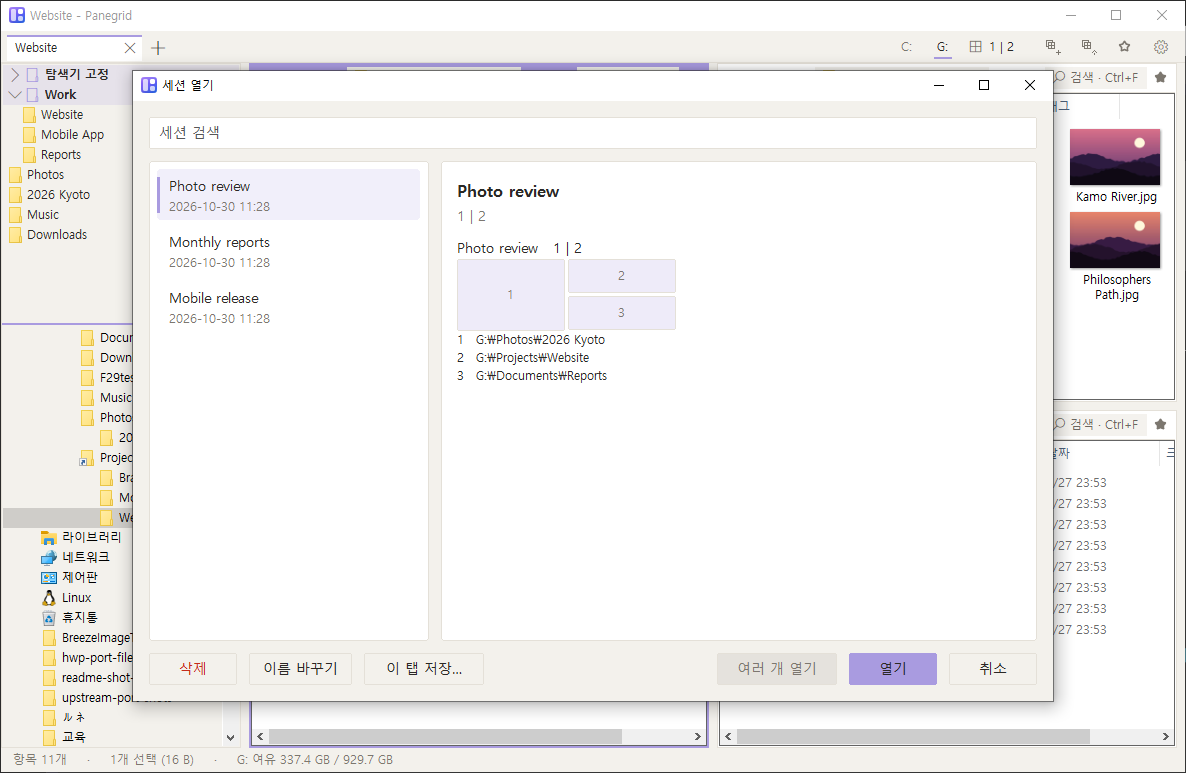
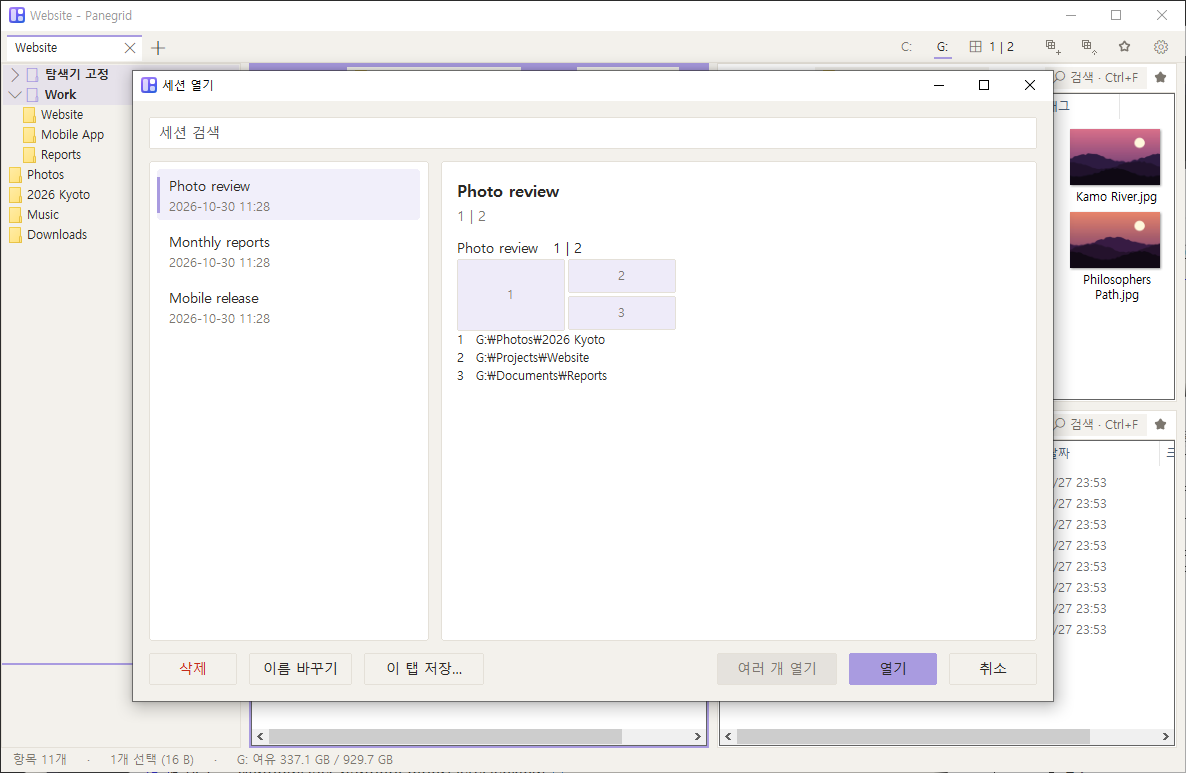
docs: clean README shots (G: curated) + text/shortcut refresh
Retake EN+KO README screenshots with TreeHide favorites-only sidebar
and curated G: demo data (no personal Desktop/user paths). Audit
README.md / README.ko.md against current code: soft exe-size wording,
missing features (pane rearrange, HWP/HWPX, per-folder view memory,
hover tooltips, theme keeps history, optional updater), and complete
the shortcut table from keys.rs CMDS (Ctrl+H, Ctrl+Shift+O,
Ctrl+Shift+R, Win+Shift+E, and related).

Changed region(s): [[0.0936, 0.2173, 1.0, 1.0], [0.0, 0.4036, 0.1248, 0.9625]]

diff --git a/README.md b/README.md
@@ -36,7 +36,7 @@ Every pane is a real Windows Explorer view: the full right-click menu, drag and 
 
 ### 🧩 Multi-pane layouts & sessions
 
-Up to 4 columns × 4 panes. Click or drag across the layout picker, drag any boundary to resize, and save the current tab — layout, folders, columns, and colour labels — as a named session. Opening one adds a new tab beside the current one.
+Up to 4 columns × 4 panes. Click or drag across the layout picker, drag any boundary to resize, and drag a pane number to rearrange panes (Ctrl+drag copies a pane tab into another cell). Save the current tab — layout, folders, columns, and colour labels — as a named session. Opening one adds a new tab beside the current one.
 
 With a single pane, the ⇄ button splits the tab: the selected folder (or the current one, if nothing or only files are selected) opens in a new right pane with the same columns and view. With two or more panes, ⇄ keeps its menu.
 
@@ -56,7 +56,7 @@ The ★ on the toolbar opens a themed favourites popup: your Explorer Quick-acce
 
 ### 👁 Quick preview
 
-Space or F3 previews pictures, PDF, Office, HTML, Markdown, code, CSV, ZIP and more. Ctrl+wheel zooms (10–800%), drag pans, the wheel scrolls, ←/→ step through files. Resizable, and it remembers its size.
+Space or F3 previews pictures, PDF, Office, HTML, Markdown, code, CSV, ZIP, HWP/HWPX (Hancom) and more. Ctrl+wheel zooms (10–800%), drag pans, the wheel scrolls, ←/→ step through files. Resizable, and it remembers its size.
 
 <p align="center"><img width="760" alt="preview" src="docs/images/preview.png"></p>
 
@@ -74,10 +74,12 @@ The full Explorer context menu (shell extensions included, plus Properties on em
 
 ### ⚡ Small details
 
-- **Full path on hover.** When a pane's address bar is too narrow and shows `…`, hover it to see the whole path.
+- **Full path on hover.** When a pane's address bar is too narrow and shows `…`, hover it to see the whole path. Favourites rows and locked tabs have hover tooltips too.
+- **Per-folder view memory.** Sort, columns, view mode, icon size and grouping come back when you open that folder again (saved in `folder-views.json` next to the settings; on by default).
 - **Mouse side buttons everywhere.** Back and forward work in folder panes, also over Remote Desktop.
 - **Right-click menu without the first-click lag.** Shell context menus are warmed up in the background after launch and after a long idle.
-- **Column widths are remembered** when you come back to a folder.
+- **Theme switch keeps history.** Changing light / dark rebuilds the views without wiping back / forward or the folder you were in.
+- **Optional update check.** On startup Panegrid can check GitHub Releases for a newer `panegrid.exe` (SHA-256 verified) and offer to install it.
 - **Crash report on the next launch.** If a third-party shell extension takes Panegrid down, the report names it, and you can block that DLL inside Panegrid only (`blocked_shell_extensions` in `panegrid.json`).
 
 ### 🎨 Themes & accent
@@ -86,11 +88,11 @@ Light and dark that follow Windows, six accent colours per theme, per-pane colou
 
 <p align="center"><img width="760" alt="settings" src="docs/images/settings.png"></p>
 
-📦 **One portable exe, about 1.2 MB.** Nothing to install.
+📦 **A small single exe.** Nothing to install.
 
 ## Install
 
-Download the latest `panegrid.exe` from [Releases](https://github.com/Samek86/panegrid/releases/latest). Put it in any folder and run it. One portable exe, about 1.2 MB. Nothing to install. Releases ship that raw exe and a `panegrid.exe.sha256` checksum, not a zip.
+Download the latest `panegrid.exe` from [Releases](https://github.com/Samek86/panegrid/releases/latest). Put it in any folder and run it. A small single exe — nothing to install. Releases ship that raw exe and a `panegrid.exe.sha256` checksum, not a zip.
 
 The exe is not code-signed, so Windows SmartScreen may warn the first time. Choose **More info → Run anyway**.
 
@@ -125,7 +127,9 @@ Defaults; every one can be changed in Settings → Shortcuts.
 | **View** | Ctrl+F | Search this folder (Subfolders → Everything) |
 |  | Space / F3 | Quick preview |
 |  | F6 / Shift+F6 | Next / previous focus |
+|  | Ctrl+H | Show hidden files |
 |  | Ctrl+Shift+E | Left panel |
+|  | Ctrl+Shift+O | Open folders from Explorer windows |
 | **Preview** | Ctrl+wheel | Zoom 10–800% |
 |  | Ctrl+0 | Reset zoom |
 |  | Drag | Pan a zoomed picture |
@@ -133,6 +137,7 @@ Defaults; every one can be changed in Settings → Shortcuts.
 |  | ← / → | Previous / next file |
 |  | Esc / Space / F3 | Close |
 | **File** | Ctrl+Shift+C | Copy full path |
+|  | Ctrl+Shift+R | Batch rename |
 |  | Num+ or Ctrl+Shift+A / Num− / Num* | Select / deselect / invert by pattern |
 |  | Ctrl+Alt+N | New text file |
 |  | Ctrl+Shift+N, F7 | New folder |
@@ -143,6 +148,7 @@ Defaults; every one can be changed in Settings → Shortcuts.
 |  | Ctrl+, | Settings |
 |  | F1 / Ctrl+/ | Shortcut help / list |
 |  | Ctrl+N | New window |
+|  | Win+Shift+E | Bring Panegrid to the front (global) |
 
 ## Known issues
 
